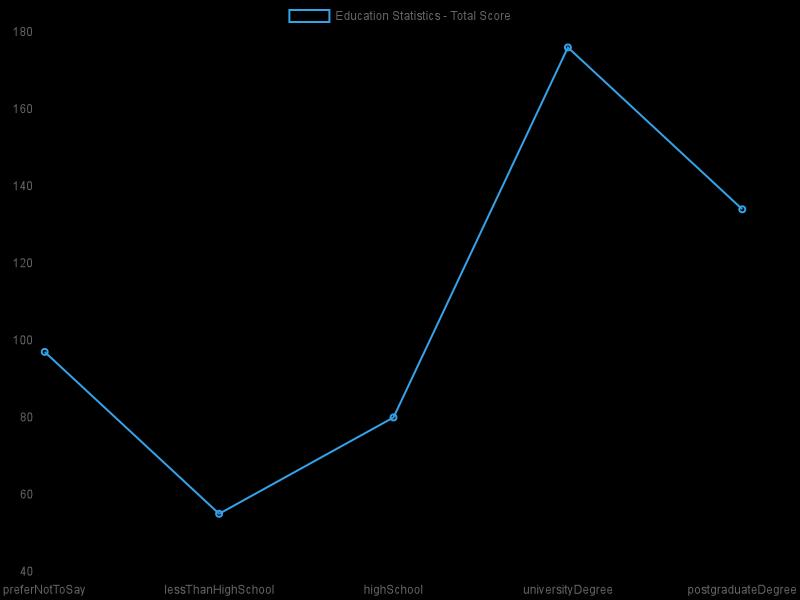
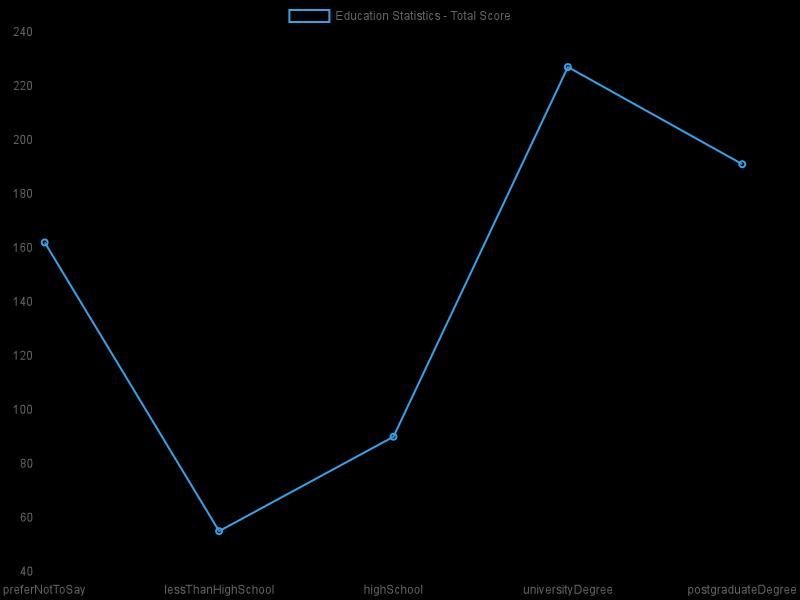
update statistics

diff --git a/Statistics/statistics.md b/Statistics/statistics.md
@@ -1,16 +1,16 @@
 # Statistics:
-- Average Score: 11.78
-- Total Entries: 46
+- Average Score: 11.69
+- Total Entries: 62
 
 ## AGE GROUP:
  | Age Group | Score total | Count | Average Score |
  | --- | --- | --- | --- |
-| preferNotToSay  | 69 | 6 | 11.50 |
+| preferNotToSay  | 120 | 11 | 10.91 |
 | under18         | 42 | 3 | 14.00 |
-| 18-24           | 75 | 5 | 15.00 |
-| 25-34           | 139 | 12 | 11.58 |
-| 35-44           | 82 | 8 | 10.25 |
-| 45-54           | 66 | 6 | 11.00 |
+| 18-24           | 92 | 6 | 15.33 |
+| 25-34           | 172 | 15 | 11.47 |
+| 35-44           | 116 | 11 | 10.55 |
+| 45-54           | 114 | 10 | 11.40 |
 | 55-64           | 44 | 4 | 11.00 |
 | 65+             | 25 | 2 | 12.50 |
 
@@ -21,10 +21,10 @@
 ## GENDER:
  | Gender | Score total | Count | Average Score |
  | --- | --- | --- | --- |
-| preferNotToSay  | 90 | 7 | 12.86 |
-| female          | 130 | 13 | 10.00 |
-| Male            | 299 | 24 | 12.46 |
-| NonBinary       | 23 | 2 | 11.50 |
+| preferNotToSay  | 141 | 12 | 11.75 |
+| female          | 138 | 14 | 9.86 |
+| Male            | 406 | 33 | 12.30 |
+| NonBinary       | 40 | 3 | 13.33 |
 
  | Total Score | Average Score |
  | --- | --- |
@@ -33,11 +33,11 @@
 ## EDUCATION:
  | Education | Score total | Count | Average Score |
  | --- | --- | --- | --- |
-| preferNotToSay  | 97 | 8 | 12.13 |
+| preferNotToSay  | 162 | 14 | 11.57 |
 | lessThanHighSchool | 55 | 4 | 13.75 |
-| highSchool      | 80 | 6 | 13.33 |
-| universityDegree | 176 | 15 | 11.73 |
-| postgraduateDegree | 134 | 13 | 10.31 |
+| highSchool      | 90 | 7 | 12.86 |
+| universityDegree | 227 | 19 | 11.95 |
+| postgraduateDegree | 191 | 18 | 10.61 |
 
  | Total Score | Average Score |
  | --- | --- |
@@ -46,12 +46,12 @@
 ## INCOME:
  | Income | Score total | Count | Average Score |
  | --- | --- | --- | --- |
-| preferNotToSay  | 349 | 30 | 11.63 |
+| preferNotToSay  | 481 | 42 | 11.45 |
 | underMinWage    | 27 | 2 | 13.50 |
-| betweenMinAndAvgWage | 54 | 5 | 10.80 |
-| between1xand1_5xAvgWage | 13 | 1 | 13.00 |
-| between1_5xand2xAvgWage | 0 | 0 | NaN |
-| moreThan2xAvgWage | 99 | 8 | 12.38 |
+| betweenMinAndAvgWage | 67 | 6 | 11.17 |
+| between1xand1_5xAvgWage | 25 | 2 | 12.50 |
+| between1_5xand2xAvgWage | 17 | 1 | 17.00 |
+| moreThan2xAvgWage | 108 | 9 | 12.00 |
 
  | Total Score | Average Score |
  | --- | --- |
@@ -60,9 +60,9 @@
 ## EMPLOYMENT STATUS:
  | Employment Status | Score total | Count | Average Score |
  | --- | --- | --- | --- |
-| preferNotToSay  | 79 | 7 | 11.29 |
-| employed        | 244 | 22 | 11.09 |
-| selfEmployed    | 11 | 1 | 11.00 |
+| preferNotToSay  | 156 | 14 | 11.14 |
+| employed        | 342 | 30 | 11.40 |
+| selfEmployed    | 19 | 2 | 9.50 |
 | unemployed      | 33 | 3 | 11.00 |
 | student         | 131 | 9 | 14.56 |
 | retired         | 44 | 4 | 11.00 |
@@ -74,12 +74,12 @@
 ## LOCATION:
  | Location | Score total | Count | Average Score |
  | --- | --- | --- | --- |
-| prefer_not_say  | 117 | 10 | 11.70 |
-| eastern_europe  | 374 | 32 | 11.69 |
+| prefer_not_say  | 187 | 17 | 11.00 |
+| eastern_europe  | 454 | 39 | 11.64 |
 | central_europe  | 15 | 1 | 15.00 |
-| western_europe  | 0 | 0 | NaN |
+| western_europe  | 16 | 1 | 16.00 |
 | northern_europe | 0 | 0 | NaN |
-| southern_europe | 0 | 0 | NaN |
+| southern_europe | 17 | 1 | 17.00 |
 | north_america   | 11 | 1 | 11.00 |
 | central_america_caribbean | 0 | 0 | NaN |
 | south_america   | 0 | 0 | NaN |
@@ -104,21 +104,21 @@
 | 2               |1 |
 | 3               |0 |
 | 4               |1 |
-| 5               |0 |
+| 5               |1 |
 | 6               |0 |
 | 7               |1 |
-| 8               |3 |
-| 9               |3 |
-| 10              |6 |
+| 8               |5 |
+| 9               |6 |
+| 10              |8 |
 | 11              |7 |
-| 12              |7 |
-| 13              |2 |
-| 14              |6 |
+| 12              |10 |
+| 13              |3 |
+| 14              |7 |
 | 15              |4 |
-| 16              |3 |
-| 17              |0 |
+| 16              |4 |
+| 17              |1 |
 | 18              |0 |
-| 19              |1 |
+| 19              |2 |
 | 20              |1 |
 | 21              |0 |
 | 22              |0 |
